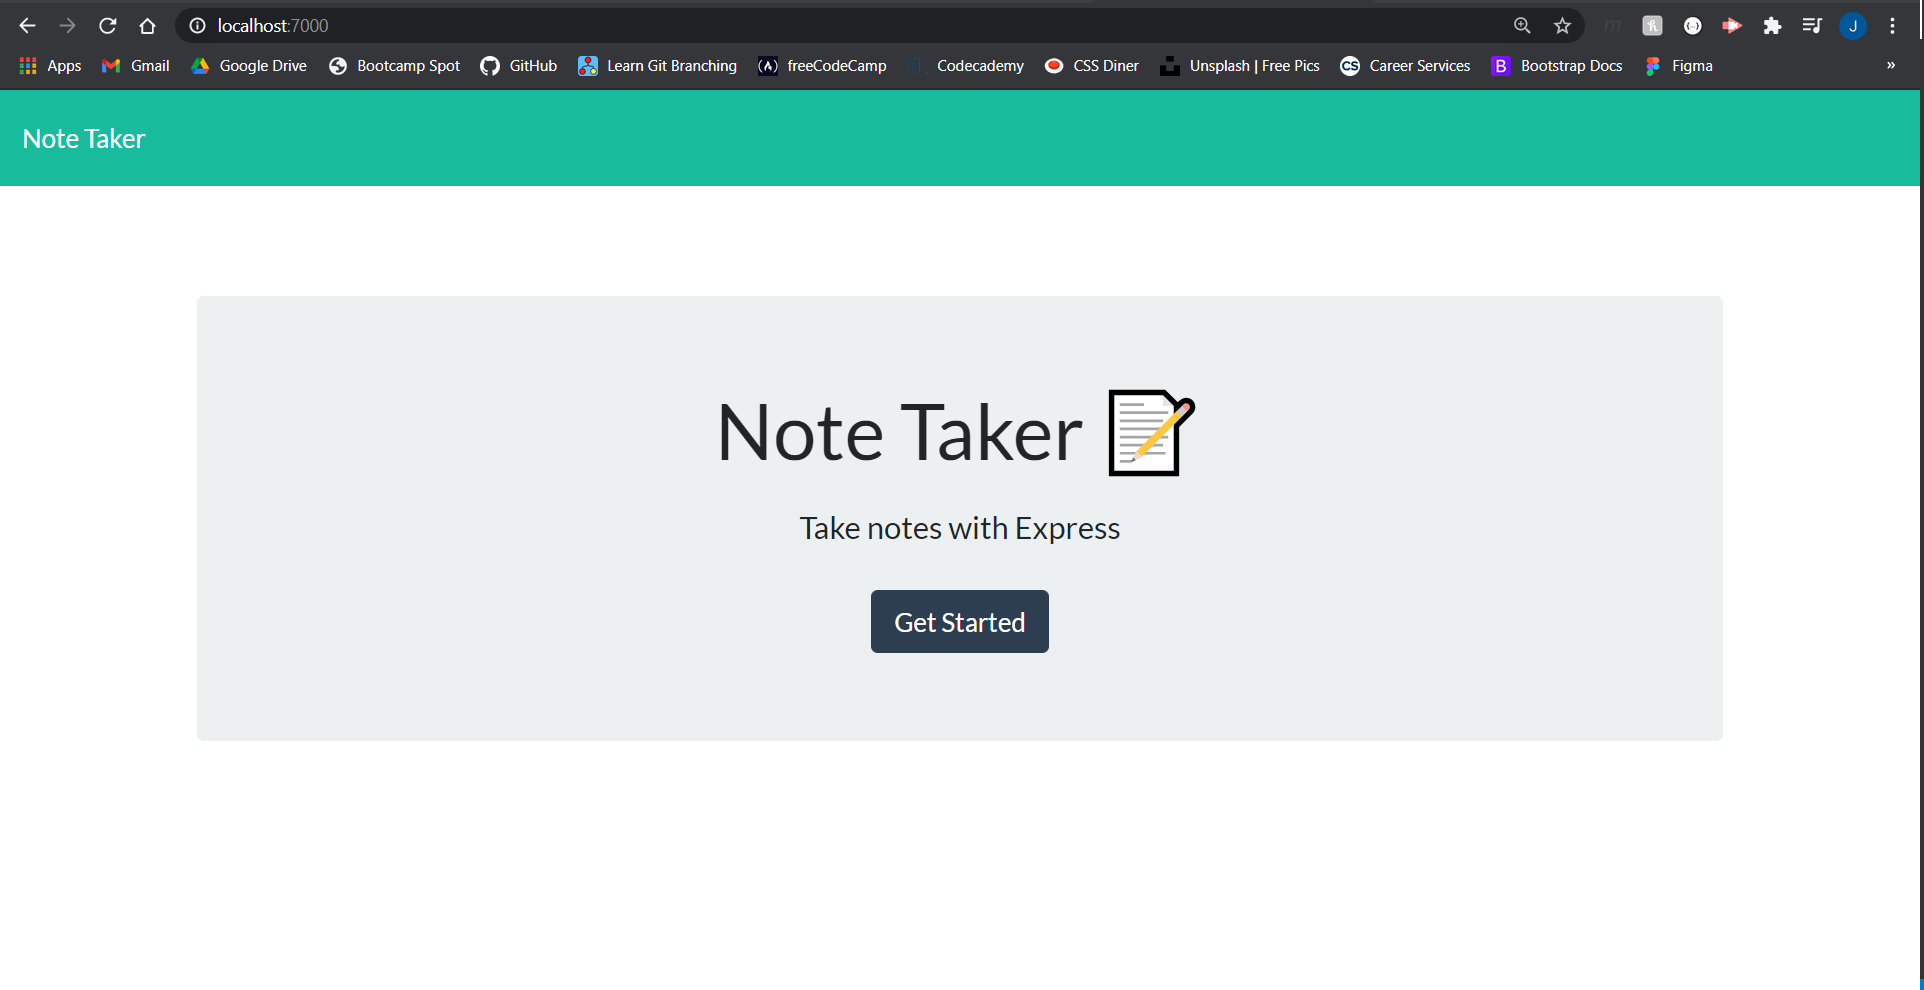
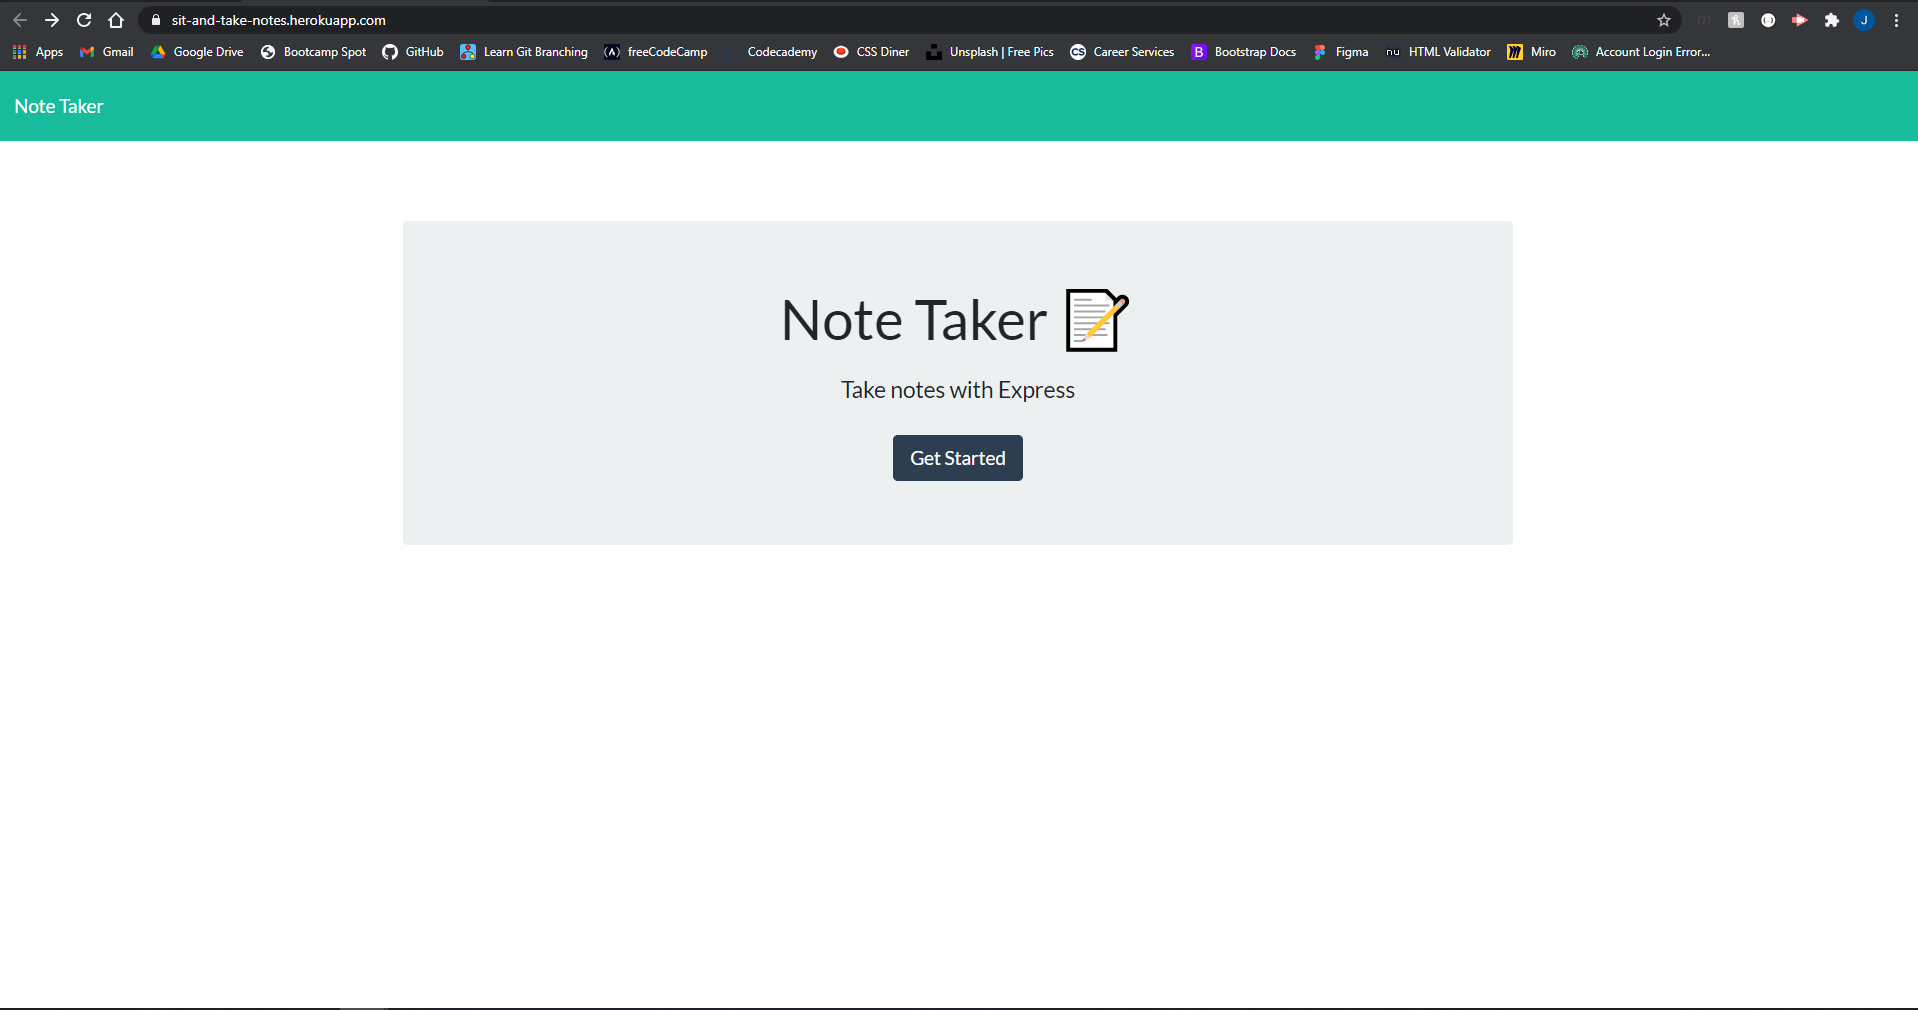
Updated readme

diff --git a/README.md b/README.md
@@ -5,7 +5,7 @@ An application that uses both front end and back end application to be deployed 
 
 ## Link to Demonstration 
 
-_Insert link to demo here_
+https://sit-and-take-notes.herokuapp.com/
 
 ## Project Description
 
